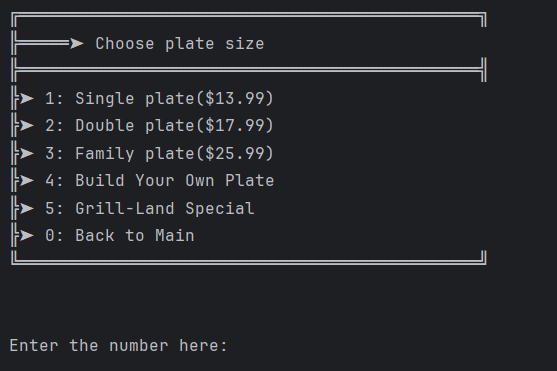
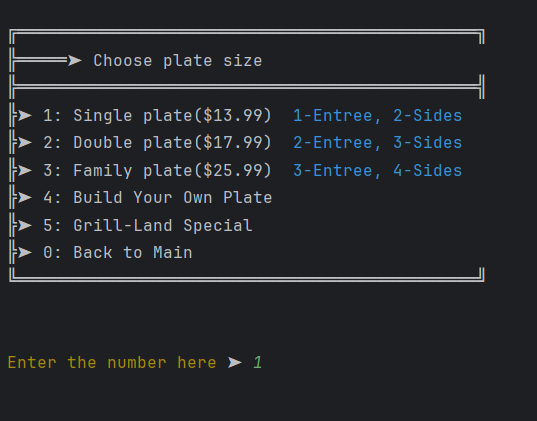
Screenshots and color theme updated Better UI

diff --git a/src/main/java/com/capstone/utils/DisplayFormatters.java b/src/main/java/com/capstone/utils/DisplayFormatters.java
@@ -2,6 +2,7 @@ package com.capstone.utils;
 
 import com.capstone.dishes.MenuItem;
 import com.capstone.dishes.Plate;
+import com.capstone.ui.Colors;
 
 import java.util.ArrayList;
 
@@ -17,13 +18,13 @@ public class DisplayFormatters {
     }
 
     public static void menuDisplay(String title, ArrayList<MenuItem> menu){
-        System.out.println("\n\n\n\n\n╔══════════════════════════════════════════════╗");
-        System.out.println("╠═════➤ "+ title);
-        System.out.println("╠══════════════════════════════════════════════╣");
+        System.out.println("\n\n\n\n\n╔══════════════════════════════════════════════\uD83D\uDD25  \uD83E\uDD69  \uD83C\uDF57  \uD83C\uDF56");
+        System.out.println("╠════════════➤ "+ title);
+        System.out.println("╠══════════════════════════════════════════════\uD83D\uDD25  \uD83E\uDD69  \uD83C\uDF57  \uD83C\uDF56");
         for(MenuItem item : menu ){
             itemDisplay(item);
         }
-        System.out.println("╚══════════════════════════════════════════════╝\n\n");
+        System.out.println("╚══════════════════════════════════════════════\uD83D\uDD25  \uD83E\uDD69  \uD83C\uDF57  \uD83C\uDF56\n\n");
     }
 
     public static void menuDisplay(String title, ArrayList<MenuItem> menu, boolean customId){
@@ -41,22 +42,24 @@ public class DisplayFormatters {
     public static void itemDisplay(MenuItem item){
         int id = item.getId();
         String name = item.getName().split("\\(")[0];
-        String category = item.getCategory();
         double price = item.getPrice();
-        int calorie = item.getCalories();
         String description = item.getDescription();
-        char size = item.getSize().toUpperCase().charAt(0);
-        System.out.printf("╠ %-2s %-25s $%-7.2f %-8d %s%n",id,name,price,calorie,description);
+        System.out.printf("╠ %-2s %s%-25s%s %s$%-7.2f%s %s%n",
+                id,
+                Colors.CYAN, name, Colors.RESET,
+                Colors.GREEN, price, Colors.RESET,
+                description);
     }
 
     public static void itemDisplay(MenuItem item, int index){
         String name = item.getName().split("\\(")[0];
-        String category = item.getCategory();
         double price = item.getPrice();
-        int calorie = item.getCalories();
         String description = item.getDescription();
-        char size = item.getSize().toUpperCase().charAt(0);
-        System.out.printf("╠ %-2s %-25s $%-7.2f %-8d %s%n",index,name,price,calorie,description);
+        System.out.printf("╠ %-2s %s%-25s%s %s$%-7.2f%s %s%n",
+                index,
+                Colors.CYAN, name, Colors.RESET,
+                Colors.GREEN, price, Colors.RESET,
+                description);
     }
 
     public static void receiptDisplay (Plate plate){
@@ -86,6 +89,6 @@ public class DisplayFormatters {
         System.out.println("❌ " + text);
     }
     public static void deniedMessageDisplay(String text){System.out.println("❗ " + text);}
-    public static void warningDisplay(String text){System.out.println("❗ " + text);}
+    public static void warningDisplay(String text){System.out.print("\n❗❗ " + text+"\n");}
 
 }

diff --git a/src/main/java/com/capstone/ui/Menu.java b/src/main/java/com/capstone/ui/Menu.java
@@ -6,10 +6,11 @@ import com.capstone.utils.*;
 public class Menu {
 
         static Plate plate = null;
-//        static User user = null;
 
     public static void start(){
-        System.out.println("Welcome to Grill Land");
+        System.out.println("🔥🔥🔥🔥🔥🔥🔥🔥🔥🔥🔥🔥🔥🔥🔥🔥🔥🔥");
+        System.out.println("      WELCOME TO GRILL LAND");
+        System.out.println("🔥🔥🔥🔥🔥🔥🔥🔥🔥🔥🔥🔥🔥🔥🔥🔥🔥🔥");
         boolean isRunning = true;
         while(isRunning){
             String[] mainMenu;
@@ -52,7 +53,12 @@ public class Menu {
     public static void startOrder(){
         boolean orderInProgress = true;
         while(orderInProgress){
-            String[] menu = {"1: Single plate($13.99)","2: Double plate($17.99)","3: Family plate($25.99)","4: Build Your Own Plate","5: Grill-Land Special","0: Back to Main"};
+            String[] menu = {"1: Single plate($13.99) "+Colors.BLUE+" 1-Entree, 2-Sides"+Colors.RESET,
+                    "2: Double plate($17.99) "+Colors.BLUE+" 2-Entree, 3-Sides"+Colors.RESET,
+                    "3: Family plate($25.99) "+Colors.BLUE+" 3-Entree, 4-Sides"+Colors.RESET,
+                    "4: Build Your Own Plate",
+                    "5: Grill-Land Special",
+                    "0: Back to Main"};
             DisplayFormatters.screenDisplay("Choose plate size",menu);
             int userChoice = InputValidators.getUserNumberInput("Enter the number here",5);
 
@@ -144,8 +150,7 @@ public class Menu {
                         System.out.println("Plate is empty! Please choose at least 1 item before checkout.");
                         break;
                     }
-                    processCheckout(plate);
-                    isRunning = false;
+                    processCheckout(plate, isRunning);
                     break;
                 }
                 case 99:{
@@ -165,16 +170,23 @@ public class Menu {
         InputValidators.enterToContinue();
     }
 
-    static void processCheckout(Plate plate){
+    static void processCheckout(Plate plate, boolean isRunning){
         System.out.println("Here is your selected menu, check and proceed to checkout.");
         DisplayFormatters.receiptDisplay(plate);
-        System.out.println("1: Proceed to checkout");
-        System.out.println("0: Cancel and Back to menu");
+        System.out.println("\n╔══════════════════════════════╗");
+        System.out.println(Colors.BRIGHT_CYAN + "╠➤ 1: Proceed to checkout"+ Colors.RESET);
+        System.out.println(Colors.BRIGHT_RED + "╠➤ 0: Cancel and Back to menu" + Colors.RESET);
+        System.out.println("╚══════════════════════════════╝\n");
         int selected = InputValidators.getUserNumberInput("Enter number here",1);
         if(selected == 1){
             FileManager.receiptGenerator(plate);
+            InputValidators.enterToContinue();
+            isRunning = false;
         } else if (selected == 0) {
+            isRunning = true;
             return;
+        }else{
+            System.out.println("Invalid input.");
         }
     }
 }

diff --git a/src/main/java/com/capstone/utils/MenuManager.java b/src/main/java/com/capstone/utils/MenuManager.java
@@ -62,8 +62,9 @@ public class MenuManager {
                     clonedItem.setVariant(chosenVariant);
                 }
                 plate.addEntree(clonedItem);
-                System.out.print("Entree " + i + " - ");
+                System.out.print("\nEntree have been added.\n");
                 DisplayFormatters.itemDisplay(clonedItem);
+                System.out.println();
             }
             i++;
 
@@ -104,8 +105,9 @@ public class MenuManager {
                 assert item != null;
                 MenuItem clonedItem = new MenuItem(item);
                 plate.addSide(clonedItem);
-                System.out.print("Side " + i + " - " );
+                System.out.print("\nSide have been added.\n");
                 DisplayFormatters.itemDisplay(clonedItem);
+                System.out.println();
             }
             i++;
         }
@@ -124,9 +126,10 @@ public class MenuManager {
             }else{
                 MenuItem item = Filters.filterByCategoryAndId("sauce", userChoice);
                 plate.addSauce(item);
-                System.out.print("Sauce " + plate.getSauces().size() + " - " );
+                System.out.print("\nSauce have been added.\n");
                 assert item != null;
                 DisplayFormatters.itemDisplay(item);
+                System.out.println();
             }
         }
     }
@@ -148,7 +151,6 @@ public class MenuManager {
                 MenuItem clonedItem = new MenuItem(item);
 
                 if(Tools.sizableItems.contains(item.getName().toLowerCase().split("\\(")[0])){
-                    System.out.println("Drink is "+ item.getName().toLowerCase().split("\\(")[0]);
 
                     DisplayFormatters.screenDisplay("Sizes", sizes);
                     while(true){
@@ -165,8 +167,9 @@ public class MenuManager {
                     }
                 }
                 plate.addDrink(clonedItem);
-                System.out.print("Drink " + plate.getDrinks().size() + " - " );
+                System.out.print("\nDrink have been added.\n");
                 DisplayFormatters.itemDisplay(clonedItem);
+                System.out.println();
             }
         }
     }
@@ -183,9 +186,10 @@ public class MenuManager {
             }else{
                 MenuItem item = Filters.filterByCategoryAndId("dessert", userChoice);
                 plate.addDessert(item);
-                System.out.print("Dessert " + plate.getDesserts().size() + " - " );
+                System.out.print("\nDessert have been added.\n");
                 assert item != null;
                 DisplayFormatters.itemDisplay(item);
+                System.out.println();
             }
         }
     }
@@ -202,9 +206,10 @@ public class MenuManager {
             }else{
                 MenuItem item = Filters.filterByCategoryAndId("extra", userChoice);
                 plate.addExtra(item);
-                System.out.print("Extra " + plate.getExtras().size() + " - " );
+                System.out.print("\nItem have been added.\n");
                 assert item != null;
                 DisplayFormatters.itemDisplay(item);
+                System.out.println();
             }
         }
     }

diff --git a/src/main/java/com/capstone/ui/Colors.java b/src/main/java/com/capstone/ui/Colors.java
@@ -1,0 +1,25 @@
+package com.capstone.ui;
+
+public class Colors {
+
+    public static final String RESET = "\u001B[0m";
+
+    // Basic Colors
+    public static final String BLACK = "\u001B[30m";
+    public static final String RED = "\u001B[31m";
+    public static final String GREEN = "\u001B[32m";
+    public static final String YELLOW = "\u001B[33m";
+    public static final String BLUE = "\u001B[34m";
+    public static final String PURPLE = "\u001B[35m";
+    public static final String CYAN = "\u001B[36m";
+    public static final String WHITE = "\u001B[37m";
+
+    // Bright Colors (optional)
+    public static final String BRIGHT_RED = "\u001B[91m";
+    public static final String BRIGHT_GREEN = "\u001B[92m";
+    public static final String BRIGHT_YELLOW = "\u001B[93m";
+    public static final String BRIGHT_BLUE = "\u001B[94m";
+    public static final String BRIGHT_PURPLE = "\u001B[95m";
+    public static final String BRIGHT_CYAN = "\u001B[96m";
+    public static final String BRIGHT_WHITE = "\u001B[97m";
+}

diff --git a/src/main/java/com/capstone/utils/InputValidators.java b/src/main/java/com/capstone/utils/InputValidators.java
@@ -1,5 +1,7 @@
 package com.capstone.utils;
 
+import com.capstone.ui.Colors;
+
 import java.util.Scanner;
 
 public class InputValidators {
@@ -37,7 +39,7 @@ public class InputValidators {
     public static int getUserNumberInput(String prompt, int count){
             int number;
             while(true){
-                System.out.print(prompt + ": ");
+                System.out.print(Colors.YELLOW + prompt + Colors.RESET + " ➤ ");
                 String input = sc.nextLine().trim();
                 try{
                     number = Integer.parseInt(input);
